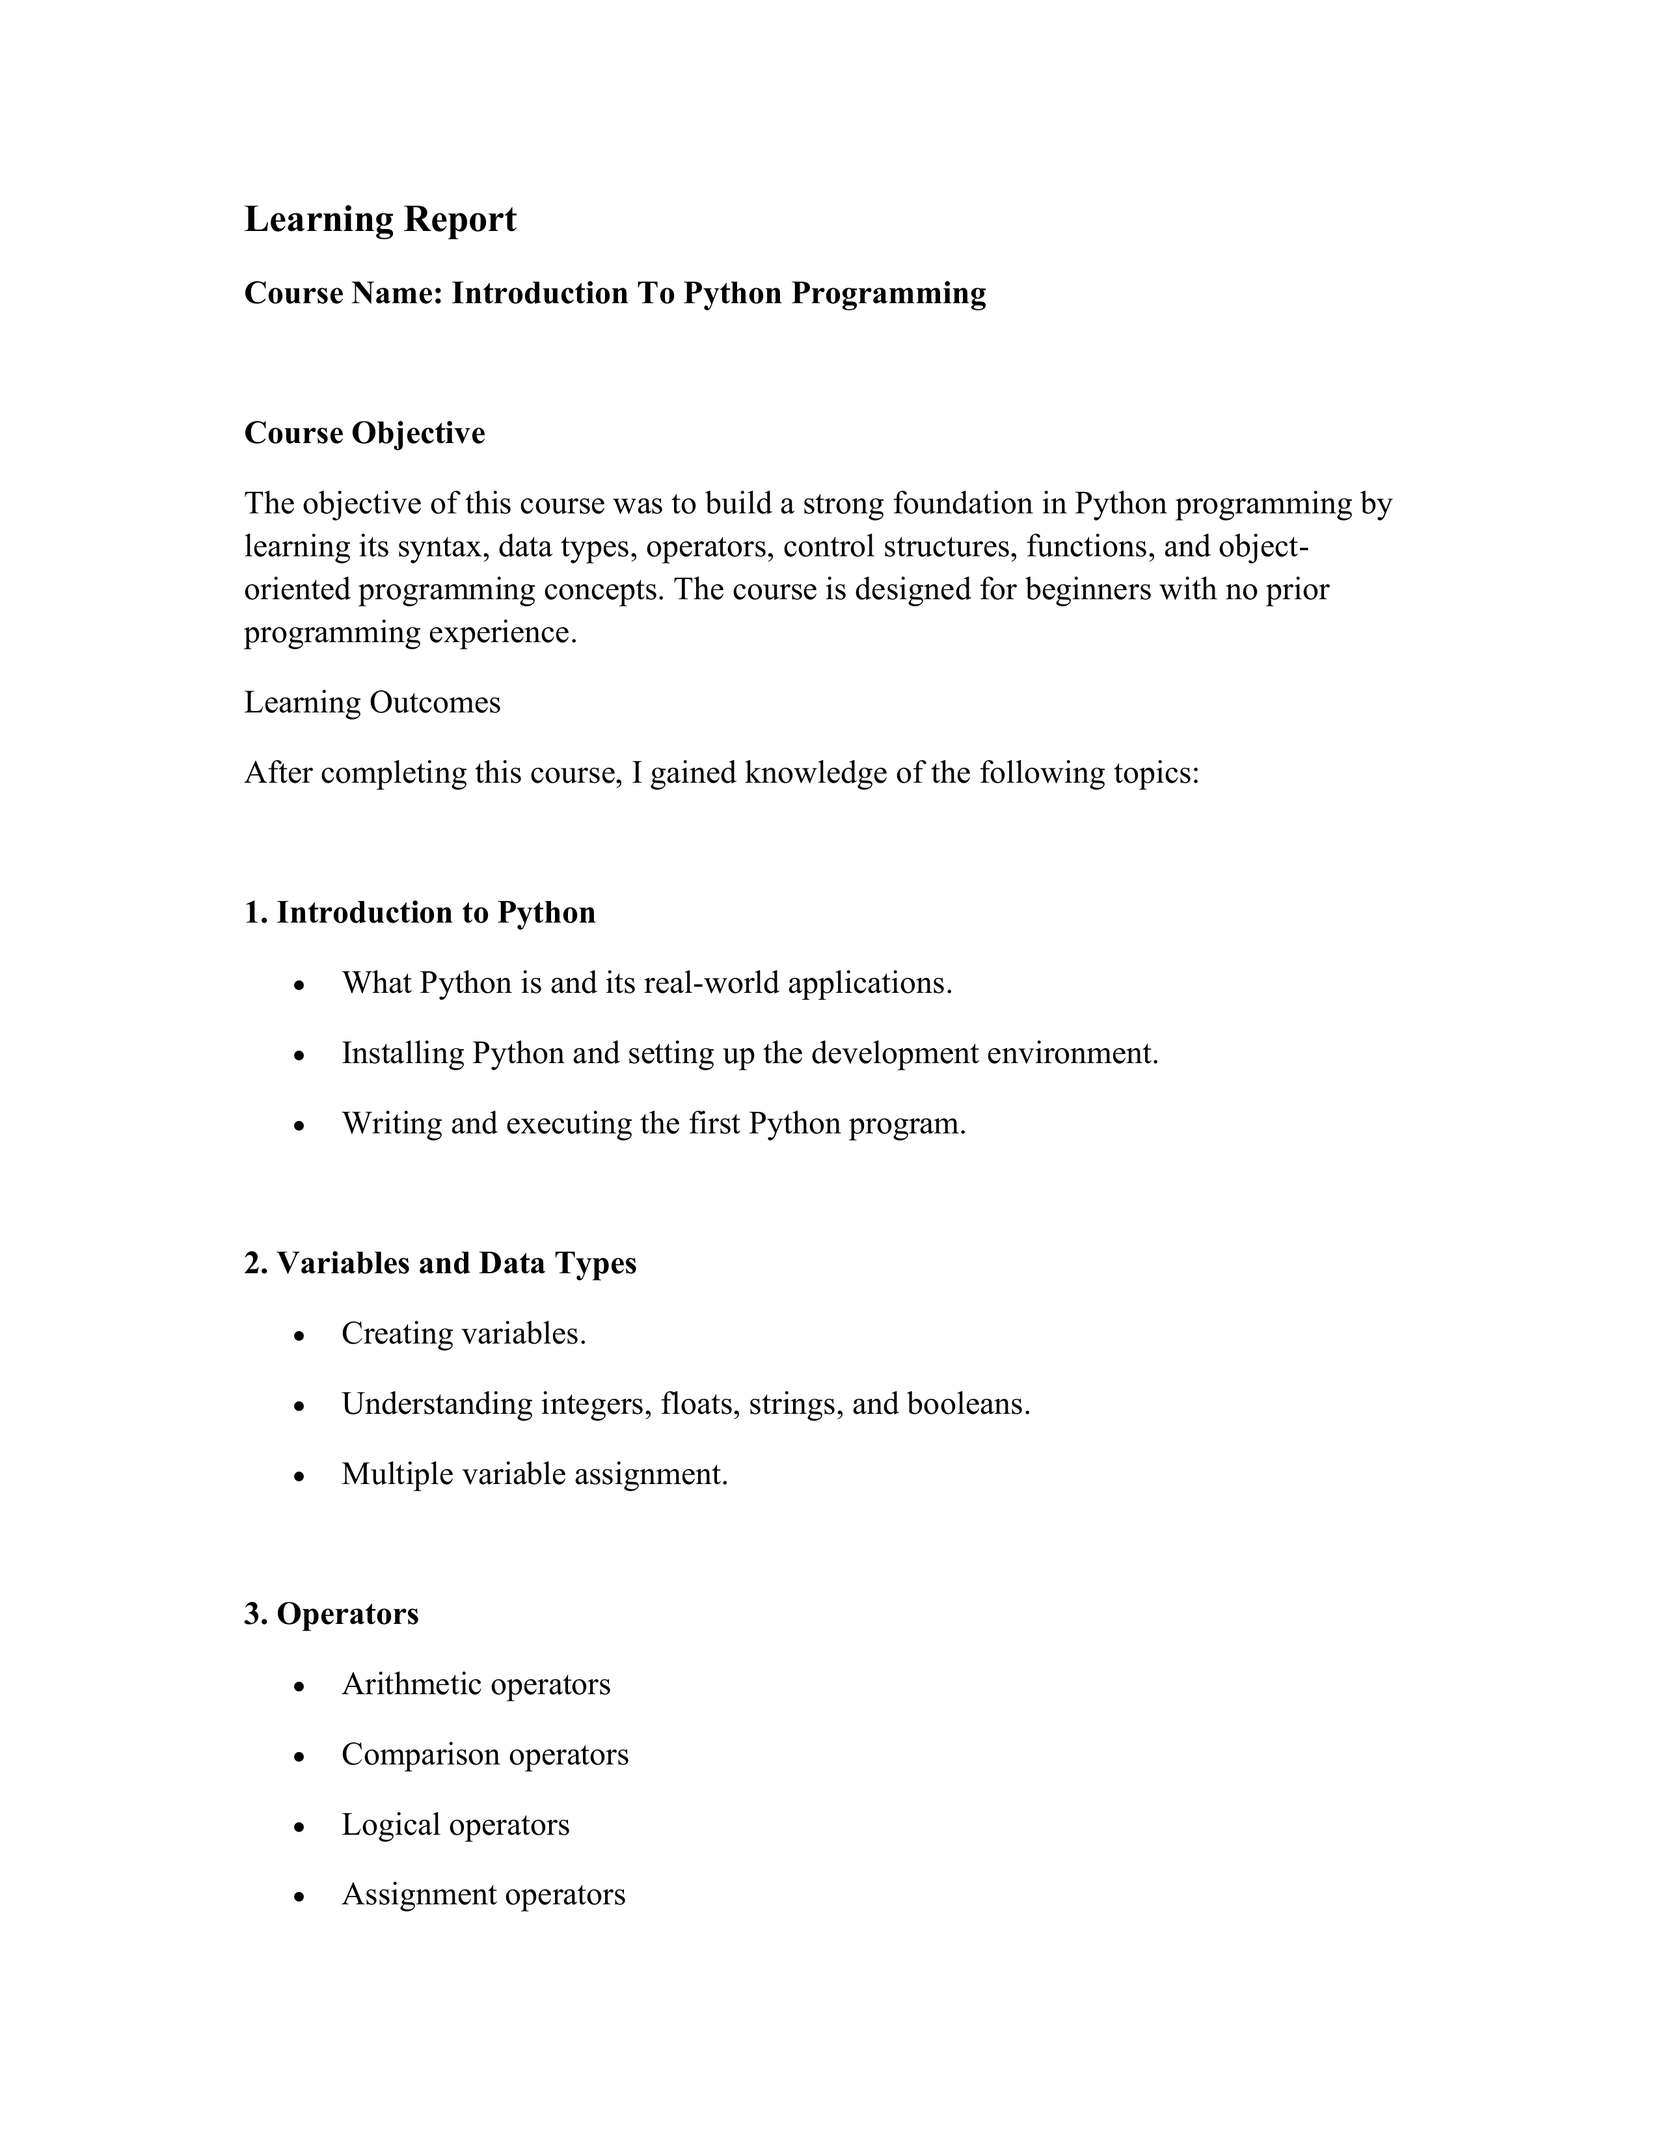
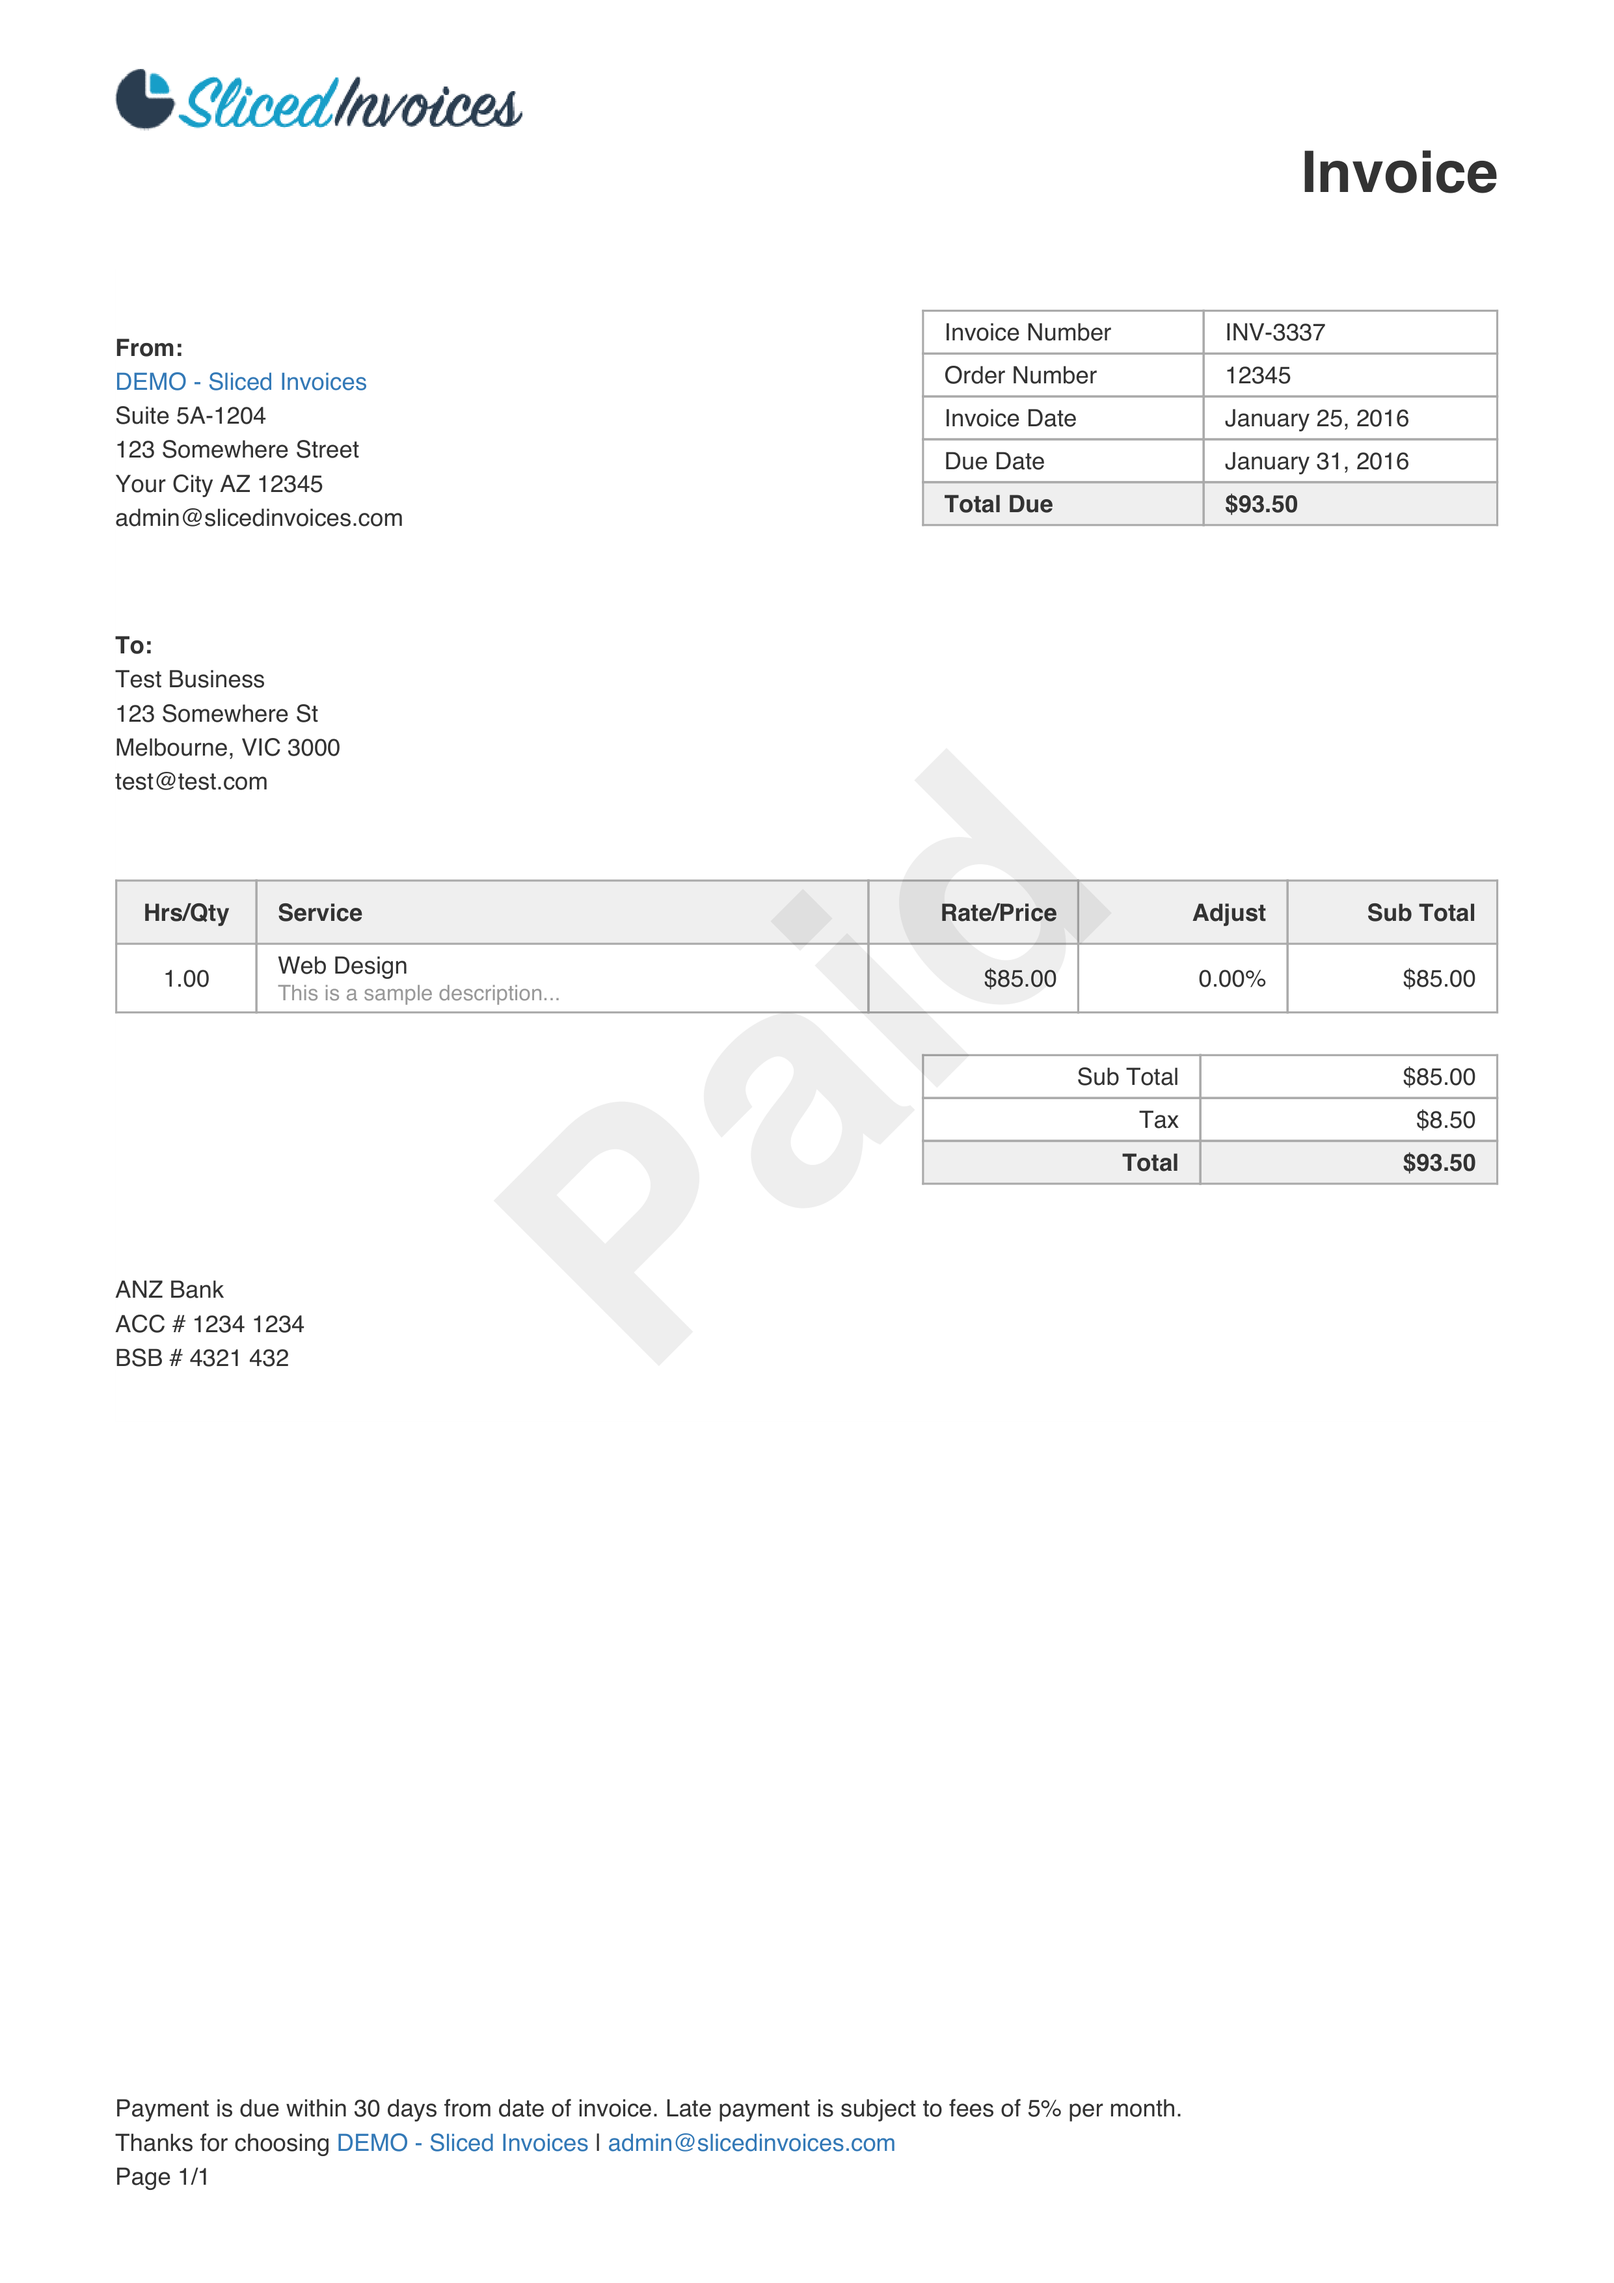
Added offline Gemma AI integration and invoice validation

diff --git a/app/routers/invoices.py b/app/routers/invoices.py
@@ -1,6 +1,7 @@
 from fastapi import APIRouter, Depends, HTTPException
 from sqlalchemy.orm import Session
-
+from fastapi import Query
+import json
 from app.database import SessionLocal
 from app import model
 
@@ -38,6 +39,43 @@ def search_status(status: str, db: Session = Depends(get_db)):
         model.Invoice.status == status
     ).all()
 
+@router.get("/search/")
+def search_invoice(
+    vendor: str = Query(None),
+    status: str = Query(None),
+    db: Session = Depends(get_db)
+):
+
+    invoices = db.query(model.Invoice).all()
+
+    results = []
+
+    for invoice in invoices:
+
+        data = json.loads(invoice.extracted_json)
+
+        if vendor:
+
+            if vendor.lower() not in data.get(
+                "vendor_name", ""
+            ).lower():
+                continue
+
+        if status:
+
+            if invoice.validation_status.lower() != status.lower():
+                continue
+
+        results.append({
+            "id": invoice.id,
+            "vendor": data.get("vendor_name"),
+            "invoice_number": data.get("invoice_number"),
+            "amount": data.get("total_amount"),
+            "validation": invoice.validation_status,
+            "confidence": invoice.confidence_score
+        })
+
+    return results
 
 # Get invoice by ID
 @router.get("/{invoice_id}")

diff --git a/app/services/ai_service.py b/app/services/ai_service.py
@@ -1,34 +1,37 @@
 import json
-from urllib import response
-from google import genai
-from app.config import GEMINI_API_KEY
-
-
-client = genai.Client(api_key=GEMINI_API_KEY)
-
+import ollama
 
 def extract_invoice_data(raw_text: str):
 
     prompt = f"""
 You are an invoice extraction assistant.
 
-Extract the invoice information from the following OCR text.
+Extract only the following fields and return ONLY valid JSON.
 
-Return ONLY valid JSON.
+Fields:
+- vendor_name
+- invoice_number
+- invoice_date
+- gstin
+- total_amount
 
-OCR TEXT:
-
+Invoice Text:
 {raw_text}
 """
 
-    response = client.models.generate_content(
-    model="gemini-flash-latest",
-    contents=prompt,
+    response = ollama.chat(
+        model="gemma3:4b",
+        messages=[
+            {
+                "role": "user",
+                "content": prompt
+            }
+        ]
     )
-    print(response.text)
-    text = response.text.strip()
 
-    if text.startswith("```json"):
-        text = text.replace("```json", "").replace("```", "").strip()
+    result = response["message"]["content"]
 
-    return json.loads(text)
+    # Remove markdown
+    result = result.replace("```json", "").replace("```", "").strip()
+
+    return json.loads(result)

diff --git a/app/routers/upload.py b/app/routers/upload.py
@@ -1,7 +1,7 @@
 from fastapi import APIRouter, UploadFile, File, Depends, HTTPException
 from sqlalchemy.orm import Session
 import json
-
+from app.services.validation_service import validate_invoice
 from app.database import SessionLocal
 from app import model
 from app.services.upload_service import save_uploaded_file
@@ -51,7 +51,15 @@ def upload_invoice(
         invoice_json = {}
 
         if raw_text.strip():
-            invoice_json = extract_invoice_data(raw_text)
+            try:
+                invoice_json = extract_invoice_data(raw_text)
+            except Exception as e:
+                invoice_json = {
+                    "error": str(e)
+                }
+
+        # Validate AFTER AI extraction
+        validation = validate_invoice(invoice_json)
 
         # Step 4: Save to Database
         invoice = model.Invoice(
@@ -61,7 +69,10 @@ def upload_invoice(
             file_type=file_info["file_type"],
             raw_text=raw_text,
             extracted_json=json.dumps(invoice_json),
-            status="completed"
+            status="completed",
+
+            validation_status=validation["status"],
+            confidence_score=validation["confidence"]
         )
 
         db.add(invoice)

diff --git a/app/services/validation_service.py b/app/services/validation_service.py
@@ -1,0 +1,42 @@
+import re
+
+
+def validate_invoice(data):
+    confidence = 0
+
+    if data.get("vendor_name"):
+        confidence += 20
+
+    if data.get("invoice_number"):
+        confidence += 20
+
+    if data.get("invoice_date"):
+        confidence += 20
+
+    amount = data.get("total_amount")
+
+    try:
+        float(amount)
+        confidence += 20
+    except:
+        pass
+
+    gst = data.get("gstin")
+
+    if gst:
+        pattern = r'^[0-9]{2}[A-Z]{5}[0-9]{4}[A-Z]{1}[A-Z0-9]{3}$'
+
+        if re.match(pattern, gst):
+            confidence += 20
+
+    if confidence >= 80:
+        status = "valid"
+    elif confidence >= 50:
+        status = "warning"
+    else:
+        status = "invalid"
+
+    return {
+        "confidence": confidence,
+        "status": status
+    }

diff --git a/app/model.py b/app/model.py
@@ -1,4 +1,4 @@
-from sqlalchemy import Column, Integer, String, Text
+from sqlalchemy import Column, Integer, String, Text, Float
 from app.database import Base
 
 
@@ -17,3 +17,5 @@ class Invoice(Base):
     extracted_json = Column(Text, nullable=True)
 
     status = Column(String, default="uploaded")
+    validation_status = Column(String, default="pending")
+    confidence_score = Column(Float, default=0)

diff --git a/app/test_validation.py b/app/test_validation.py
@@ -1,0 +1,11 @@
+from app.services.validation_service import validate_invoice
+
+data = {
+    "vendor_name": "DEMO Sliced Invoices",
+    "invoice_number": "INV-3337",
+    "invoice_date": "January 25, 2016",
+    "gstin": "AZ 12345",
+    "total_amount": "93.50"
+}
+
+print(validate_invoice(data))

diff --git a/app/test_ai.py b/app/test_ai.py
@@ -1,0 +1,11 @@
+from app.services.ai_service import extract_invoice_data
+
+sample = """
+Vendor: ABC Pvt Ltd
+Invoice Number: INV-001
+Invoice Date: 16/07/2026
+GSTIN: 27ABCDE1234F1Z5
+Total Amount: 11800
+"""
+
+print(extract_invoice_data(sample))
